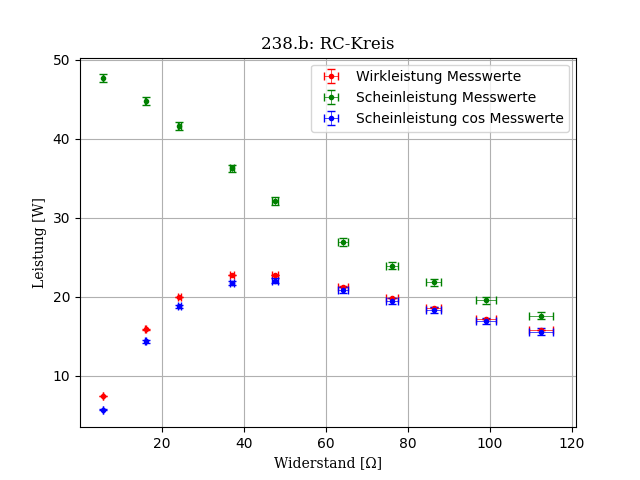
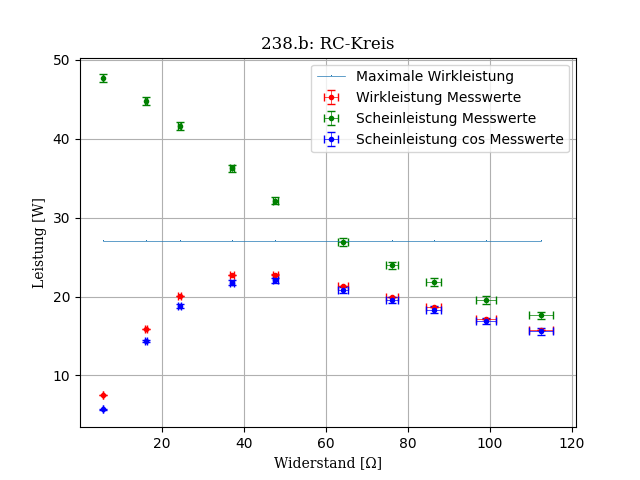
238 updates

diff --git a/physik_261-661/physik_361/238/auswertung.py b/physik_261-661/physik_361/238/auswertung.py
@@ -40,17 +40,17 @@ a_head2 = ['Pw [W]','ΔPw [W]','Ps [W]','ΔPs [W]','Ps*cos [W]','ΔP*cos [W]']
 #print(tabulate(a_data2,headers=a_head2,tablefmt='fancy_grid'))
 
 zusammen = ['a','a','a','end'] # Welche Plots zusammengehören. Gleiche Buchstaben werden in einem Plot ausgegeben (Beispiel: ['a','a','b'], die ersten beiden x, y Werte werden in einem Plot ausgegeben, die dritten x, y, Werte werden in einem Plot ausgegeben).
-x = [a_R,a_R,a_R]
-xerr = [a_delt_R,a_delt_R,a_delt_R]
-xlabel = 'Widerstand [Ω]'
-y = [a_Pw,a_Ps,a_Pscos]
-yerr = [a_delt_Pw,a_delt_Ps,a_delt_Pscos]
-ylabel = 'Leistung [W]'
+x = [a_R,a_R,a_R,a_R]
+xerr = [a_delt_R,a_delt_R,a_delt_R,np.zeros(len(a_R))+0.01]
+xlabel = ['Widerstand [Ω]','Widerstand [Ω]','Widerstand [Ω]','Widerstand [Ω]']
+y = [a_Pw,a_Ps,a_Pscos,np.zeros(len(a_R))+27]
+yerr = [a_delt_Pw,a_delt_Ps,a_delt_Pscos,np.zeros(len(a_R))+0.01]
+ylabel = ['Leistung [W]','Leistung [W]','Leistung [W]','Leistung [W]']
 title = '238.b: RC-Kreis'
-label = ['Wirkleistung','Scheinleistung','Scheinleistung cos'] # label von plt.errorbar und plt.plot
-color = ['red','green','blue'] # farbe der punkte (geraden sind immer blau)
+label = ['Wirkleistung','Scheinleistung','Scheinleistung cos','Maximale Wirkleistung'] # label von plt.errorbar und plt.plot
+color = ['red','green','blue','pink'] # farbe der punkte (geraden sind immer blau)
 
-Auswertung = gf.Auswertung(x,xerr,xlabel,y,yerr,ylabel,title,label,color,zusammen)
+#Auswertung = gf.Auswertung(x,xerr,xlabel,y,yerr,ylabel,title,label,color,zusammen)
 #Auswertung.auswertung()
 
 #}}}
@@ -188,8 +188,8 @@ title = '238.g: Spannungsübertragung'
 label = ['Spannungsverhältnis'] # label von plt.errorbar und plt.plot
 color = 'red' # farbe der punkte (geraden sind immer blau)
 
-Auswertung = gf.Auswertung(x,xerr,xlabel,y,yerr,ylabel,title,label,color,zusammen)
-Auswertung.auswertung()
+#Auswertung = gf.Auswertung(x,xerr,xlabel,y,yerr,ylabel,title,label,color,zusammen)
+#Auswertung.auswertung()
 
 # Plot
 

diff --git a/physik_261-661/physik_361/238/geradenfit.py b/physik_261-661/physik_361/238/geradenfit.py
@@ -92,5 +92,5 @@ class Auswertung:
             elif self.zusammen[i] == self.zusammen[i+1]:
                 continue
 
-        plt.show()
-        #plt.savefig('238_g_plot.png')
+        #plt.show()
+        plt.savefig('238_b_plot.png')
